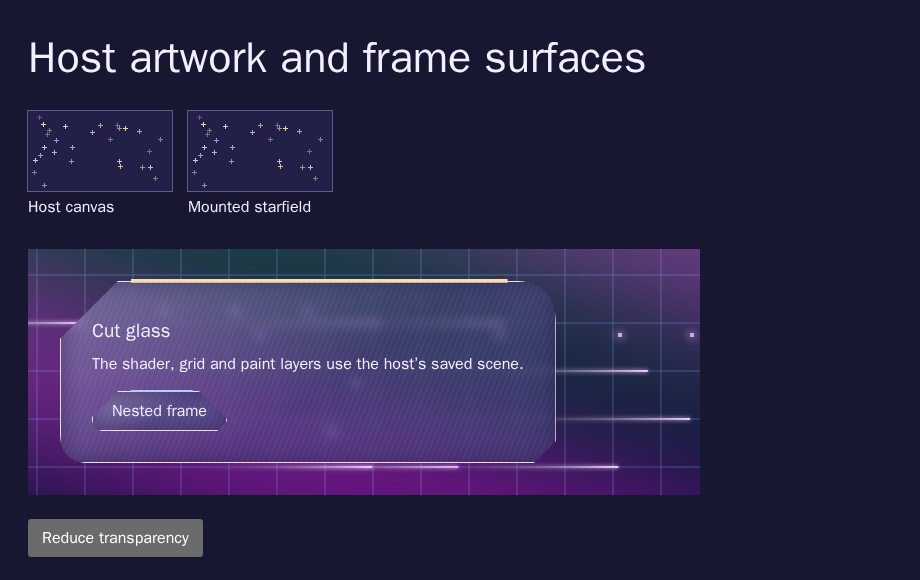
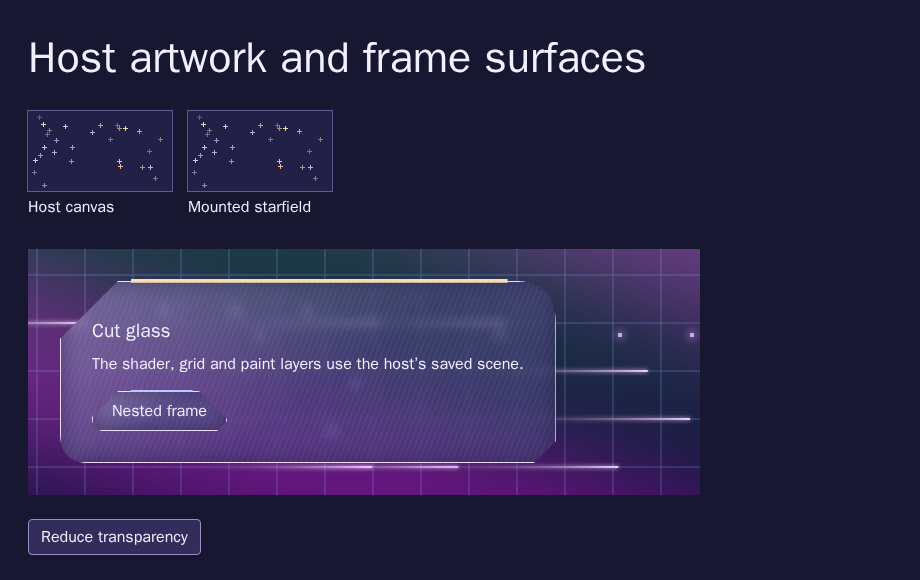
Set accessible button colors in the host integration example

Changed region(s): [[0.0304, 0.869, 0.2435, 0.9621]]

diff --git a/examples/themes/host-integration/index.html b/examples/themes/host-integration/index.html
@@ -43,6 +43,10 @@
       button {
         font: inherit;
         padding: 0.4rem 0.75rem;
+        color: #f2efff;
+        background: #342d5b;
+        border: 1px solid #9b8fc1;
+        border-radius: 0.25rem;
       }
       .comparison {
         display: flex;
